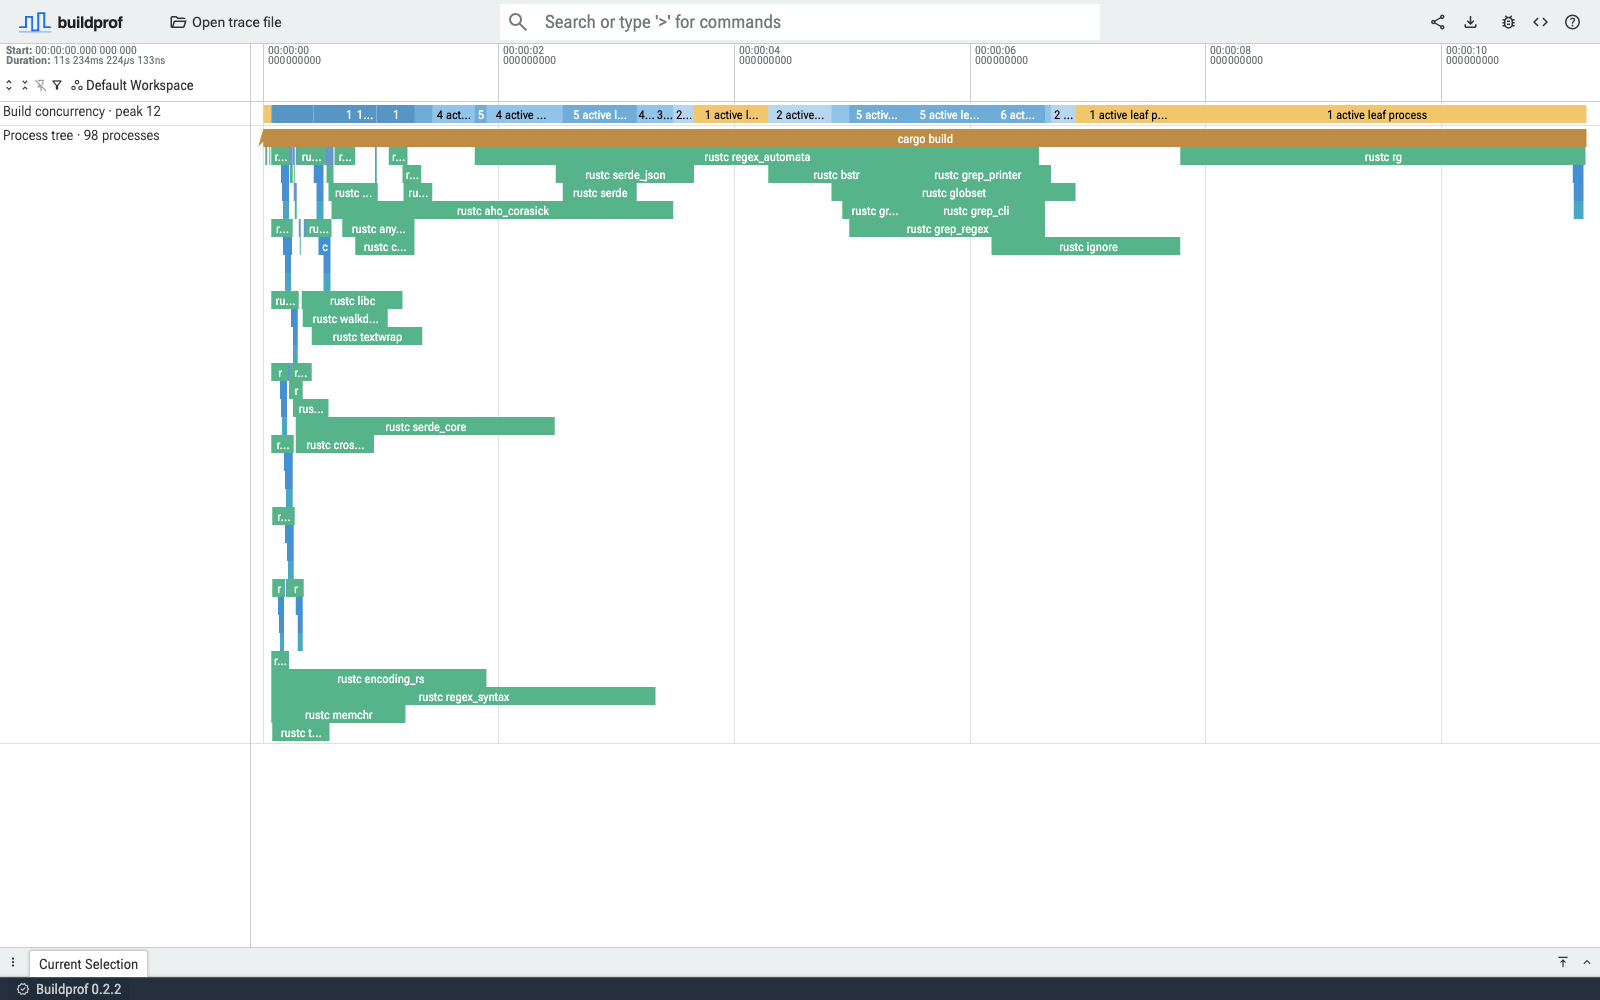
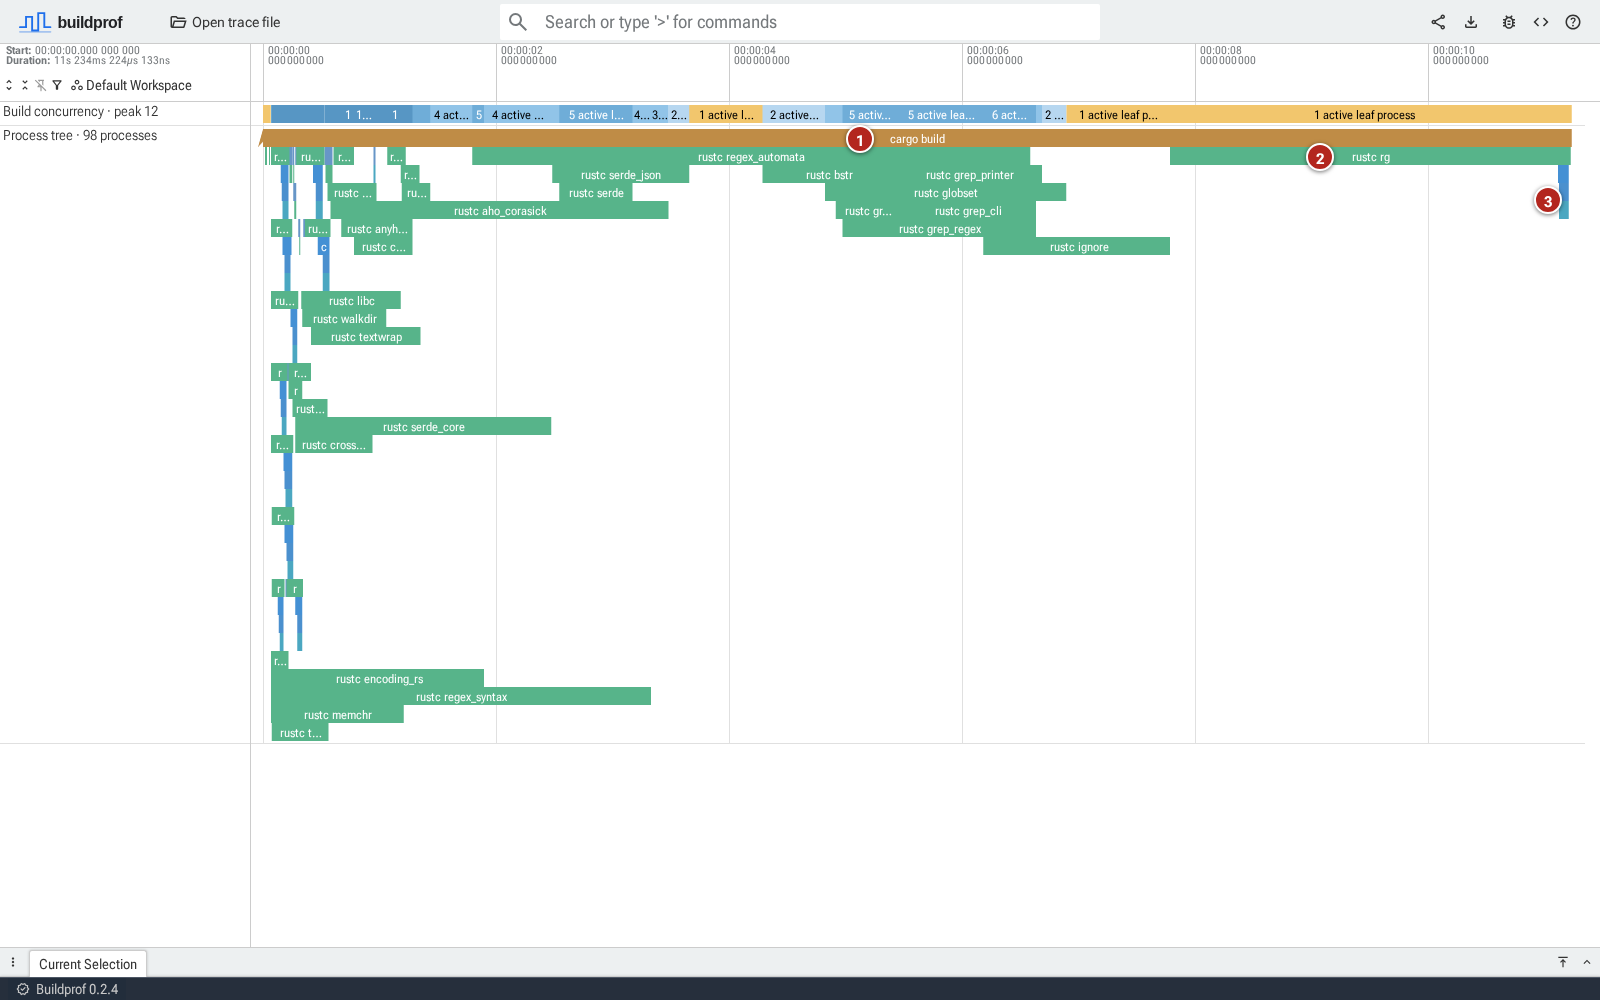
docs: annotated screenshots for every step of the guide and tour

diff --git a/docs/ripgrep-tutorial.md b/docs/ripgrep-tutorial.md
@@ -10,16 +10,17 @@ Open the [ripgrep release build](https://buildprof.lalitm.com/#!/?url=https://bu
 If you already have Buildprof installed, `buildprof open --example ripgrep`
 opens the same example.
 
-The screenshots below use the bundled 0.2.2 recording: about 11.23 seconds,
-98 processes, and peak concurrency of 12. The hosted example may be replaced
-with a newer recording; exact times, process IDs, and layout can then differ.
+The screenshots below show the hosted recording in Buildprof 0.2.4: about
+11.23 seconds, 98 processes, and peak concurrency of 12. The hosted example
+may be replaced with a newer recording; exact times, process IDs, and layout
+can then differ.
 
-![The ripgrep build timeline, with overlapping crate compilations followed by rustc rg](assets/ripgrep-tour-overview.png)
+![The ripgrep build timeline, with callouts on the cargo build bar, the final rustc rg bar, and the linking chain](assets/ripgrep-tour-overview.png)
 
-Find the long **cargo build** bar. The green `rustc` bars beneath it are crate
-compilations. Several overlap early in the recording, while **rustc rg** runs
-near the end after the other crates finish. The short bars below its right
-edge form the final linking chain.
+1. The long **cargo build** bar spans the whole build. The green `rustc` bars
+   beneath it are crate compilations; several overlap early in the recording.
+2. **rustc rg** runs near the end, after the other crates finish.
+3. The short bars below its right edge form the final linking chain.
 
 ## 2. Inspect the final crate
 
@@ -27,9 +28,7 @@ Click **rustc rg**, the long green bar near the right end of the timeline.
 Drag the divider above **Current Selection** upward if you need more room
 for the details.
 
-![The selected rustc rg process, with numbered callouts for its bar, command, and producers](assets/ripgrep-tour-process.png)
-
-Find these three items:
+![The selected rustc rg process, with callouts on its bar, its command, its input producers, and the cc child it spawned](assets/ripgrep-tour-process.png)
 
 1. The outlined bar is your selected process. Its lifetime is about **3.44 s**.
 2. Under **Process → Program → Command**, the arguments include
@@ -37,11 +36,10 @@ Find these three items:
    compiling. The working directory tells you where that relative path starts.
 3. Under **Dependencies → Produced by**, you can see the processes which
    produced its inputs. There are **33 actions** in this recording.
-
-Under **Process tree → Spawned**, notice the short `cc` command. Follow that
-process link, then its children, to inspect the linking chain. Each selection
-shows that process's own command and lifetime. Click the original `rustc rg`
-bar again to return to it.
+4. Under **Process tree → Spawned**, the short `cc` command is the start of
+   the linking chain. Follow that process link, then its children, to inspect
+   the chain. Each selection shows that process's own command and lifetime.
+   Click the original `rustc rg` bar again to return to it.
 
 ## 3. Follow an input to its producer
 
@@ -49,21 +47,32 @@ Under **Produced by**, click **rustc log**. The file shown alongside it begins
 with `liblog` and ends in `.rlib`; it is a compiled Rust library consumed by
 the final crate.
 
-Buildprof selects that earlier compiler process and brings it into view.
-Its command identifies the `log` crate. You have moved from a consumer to
-the process which produced one of its inputs, without needing to know
-Cargo's internal build graph.
+Buildprof selects that earlier compiler process and zooms the timeline in
+around it.
 
-Use **Consumed by** to find and follow the link back to **rustc rg**. These
-links describe observed file use; they do not by themselves establish why
-the build system chose a particular start time.
+![The selected rustc log process, with callouts on its command, its Consumed by list, and the link back to rustc rg](assets/ripgrep-tour-producer.png)
+
+1. Its command identifies the `log` crate. You have moved from a consumer to
+   the process which produced one of its inputs, without needing to know
+   Cargo's internal build graph.
+2. **Consumed by** follows the relationship in the other direction: nine
+   later compilations read the `log` crate's outputs.
+3. The first of them is **rustc rg**. Click it to return. These links describe
+   observed file use; they do not by themselves establish why the build
+   system chose a particular start time.
 
 ## 4. Examine the serial tail
 
-Click the yellow interval in **Build concurrency** above the middle of the
-`rustc rg` bar. The details should show **1 active leaf process** and a link
-to `rustc rg`. Cargo is still alive, but its running child means Cargo does
-not add another leaf to the count.
+Reload the example, or zoom back out with **W / S** and pan with **A / D**,
+so the whole build is visible again. Then click the yellow interval in
+**Build concurrency** above the middle of the `rustc rg` bar.
+
+![The selected concurrency interval, with callouts on the interval, its one active leaf process, and the link to rustc rg](assets/ripgrep-tour-concurrency.png)
+
+1. The outlined interval lasts about 3.3 seconds.
+2. The details show **1 active leaf process**. Cargo is still alive, but its
+   running child means Cargo does not add another leaf to the count.
+3. The one process is **rustc rg**.
 
 This explains the timeline's shape: most crate compilations have finished,
 leaving the final crate. It does not tell us how many CPU cores that compiler
@@ -71,14 +80,18 @@ is using internally.
 
 ## 5. Summarize the earlier work
 
-Return to the earlier part of the timeline with **A / D** to pan and **W / S**
-to zoom if needed. Click and drag across the **Process tree** track over
-roughly seconds 2–6. Open **Build aggregation** in the bottom panel.
+Click and drag across the **Process tree** track over roughly seconds 2–6.
+Then open **Build aggregation** in the bottom panel.
 
-Choose **Tool**. Expand the `rustc` group to see individual compilations,
-then choose **Action** to group by their labels or **Directory** to group by
-working directory. You should see several Rust compilations in this earlier
-window, in contrast to the single process in the tail.
+![An area selection over seconds 2 to 6, with callouts on the selection, the Build aggregation tab, the grouping buttons, and the rustc group](assets/ripgrep-tour-aggregation.png)
+
+1. The shaded region is the selected time range.
+2. **Build aggregation** summarizes the processes in that range.
+3. **Tool**, **Directory**, and **Action** choose how to group them.
+4. Grouped by **Tool**, the `rustc` group holds about a dozen Rust
+   compilations in this window, in contrast to the single process in the
+   tail. Click the row to list the individual compilations; **Back to pivot**
+   returns to the groups.
 
 The totals sum full lifetimes of overlapping processes which never spawned
 children. They are not clipped to the selection, and parallel work adds

diff --git a/docs/investigating-builds.md b/docs/investigating-builds.md
@@ -15,6 +15,16 @@ Time runs left to right, bar width shows duration, and child processes appear
 beneath the process which launched them. Use **W / S** to zoom and **A / D**
 to pan, or **Ctrl / ⌘ + scroll** to zoom at the pointer.
 
+![The ripgrep timeline, with callouts on the time axis, the Build concurrency track, the Process tree track, child processes beneath their parent, and the long final compilation](assets/ripgrep-tour-timeline.png)
+
+1. The time axis. The whole recording is visible when a trace opens.
+2. **Build concurrency** counts the processes doing work at each moment.
+3. **Process tree** shows every process as a bar.
+4. Child processes appear beneath the process which launched them, here the
+   `rustc` invocations beneath `cargo build`.
+5. A long-running command at the end of the build, the final `rustc rg`
+   compilation, is the kind of bar worth clicking first.
+
 Look for long-running commands, gaps before compilation starts, and processes
 which keep running after everything else finishes. Click a process to inspect
 its command line, working directory, lifetime, and exit status. For example,
@@ -34,12 +44,25 @@ see which processes overlap it, then follow their links to inspect them.
 A value of one can still represent a multithreaded compiler using many cores;
 this track does not measure CPU utilization.
 
+![A selected low-concurrency interval, with callouts on the interval, its one active leaf process, and the link to that process](assets/ripgrep-tour-concurrency.png)
+
+1. The selected interval on the **Build concurrency** track.
+2. How many leaf processes were active during it.
+3. Links to those processes, here the single `rustc rg` compilation.
+
 To summarize a busy interval, click and drag across the **Process tree** track
 to select a time range, then open **Build aggregation** in the bottom panel.
 Choose **Tool**, **Directory**, or **Action** to group the work. Compare each
-group's count, total duration, and longest duration; expand it to inspect
-individual processes. This helps distinguish many short commands from a few
-long ones.
+group's count, total duration, and longest duration; click a group to list
+its individual processes. This helps distinguish many short commands from a
+few long ones.
+
+![An area selection with the Build aggregation panel open, with callouts on the selection, the tab, the grouping buttons, and a group row](assets/ripgrep-tour-aggregation.png)
+
+1. The selected time range across the **Process tree** track.
+2. The **Build aggregation** tab.
+3. **Tool**, **Directory**, and **Action** choose the grouping.
+4. One group, with its count, summed duration, and longest duration.
 
 Aggregation includes processes which never spawned children and whose
 lifetimes overlap the selected range. It uses their full lifetimes, including
@@ -62,11 +85,21 @@ observed file relationships, not a complete account of the build system's
 scheduling decisions; files produced before recording have no producer in
 the trace.
 
-![A selected ripgrep compiler process, with callouts for its command and input producers](assets/ripgrep-tour-process.png)
+![A selected ripgrep compiler process, with callouts on its bar, its command, its input producers, and the child it spawned](assets/ripgrep-tour-process.png)
 
-The numbered callouts identify the selected process (1), its command (2),
-and the **Produced by** links (3). See the [ripgrep tour](ripgrep-tutorial.md)
-to follow these relationships yourself.
+1. The selected process on the timeline.
+2. Its command, which identifies what it was compiling.
+3. The **Produced by** links to the processes which wrote its inputs.
+4. The child it spawned, under **Spawned**, here the start of a linking chain.
+
+![The same selection with Show on timeline enabled, drawing arrows from every producer to the selected process](assets/ripgrep-tour-dependencies.png)
+
+1. **Show on timeline** draws an arrow from each producer to the selected
+   process, which makes it easy to see how long before the consumer each
+   input was ready.
+
+See the [ripgrep tour](ripgrep-tutorial.md) to follow these relationships
+yourself.
 
 ## Compiler details
 
@@ -78,7 +111,23 @@ buildprof --compiler-traces -- cargo +nightly build
 
 In the recording, select a process with compiler events and click
 **Show compiler track**. Expand its summary track to see per-thread phases;
-zoom in and click an event to inspect its duration and arguments.
+zoom in and click an event to inspect its duration and arguments. The
+screenshots below show a recording of a single `clang++ -O2` compilation.
+
+![A Clang compilation with its compiler track expanded, with callouts on the Show compiler track button, the new track, and the per-thread phases](assets/compiler-track.png)
+
+1. **Show compiler track** appears in the details of a process that has
+   compiler events.
+2. The compiler track is added beneath the process tree, with one row per
+   compiler thread.
+3. Expanding it shows the phases: here the Clang frontend, then the LLVM
+   optimizer and code generation in the backend.
+
+![A selected Backend phase, with callouts on the event and on its name and duration in the details](assets/compiler-event.png)
+
+1. Click a phase to select it.
+2. Its name and backend.
+3. Its start time and duration, with the arguments the compiler attached.
 
 You can also replay just an expensive compilation or link rather than the
 whole build. Run its command from the recorded working directory, keeping
